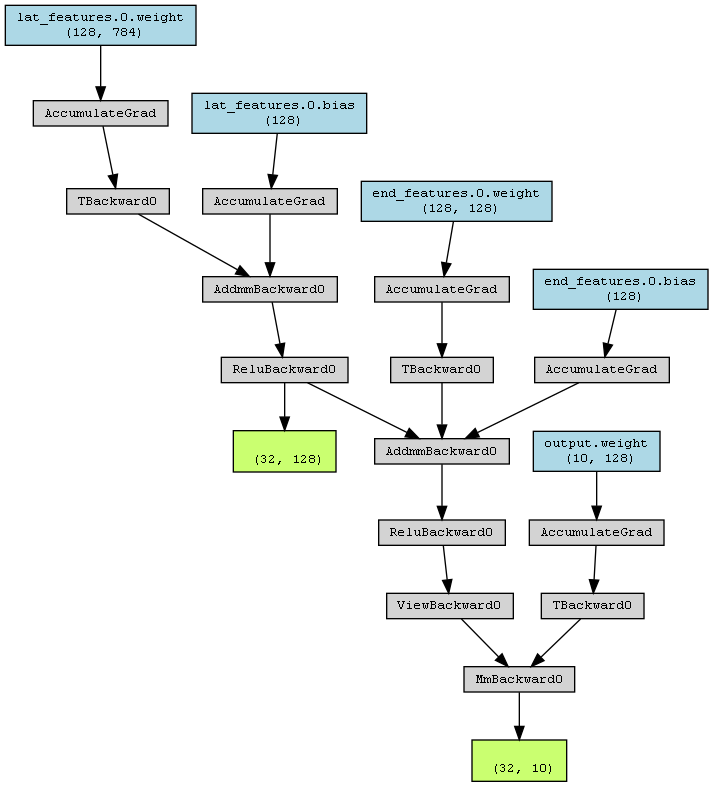
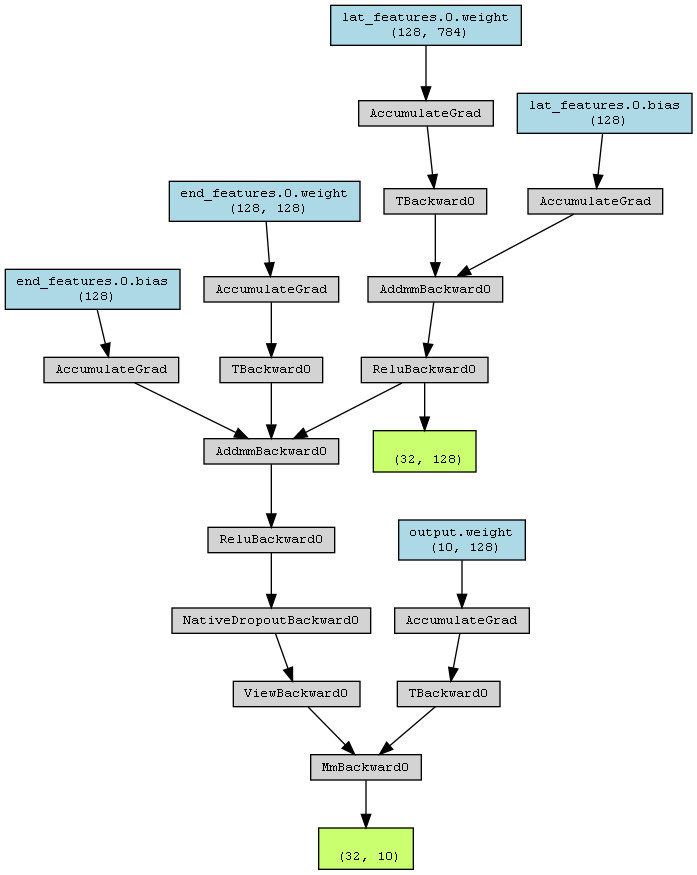
More investigation
Issue appears to be in freeze_up_to not grabbing the actual layer names / layer names being ambiguous in the MLP as defined.

diff --git a/utils.py b/utils.py
@@ -3,6 +3,10 @@ from torch import nn
 from torch import optim
 import torch.distributions as D
 
+from typing import NamedTuple, List, Callable
+from torch import Tensor
+from torch.nn import Module
+
 
 class GMM(nn.Module):
     def __init__(self, n_components, dim, weights):
@@ -67,3 +71,93 @@ def get_device():
         torch.device: Torch device. First GPU if available, else CPU.
     """
     return torch.device("cuda:0" if torch.cuda.is_available() else "cpu")
+
+
+# JA: copy of Avalanche funcs
+
+
+class LayerAndParameter(NamedTuple):
+    layer_name: str
+    layer: Module
+    parameter_name: str
+    parameter: Tensor
+
+
+def get_layers_and_params(model: Module, prefix="") -> List[LayerAndParameter]:
+    result: List[LayerAndParameter] = []
+    for param_name, param in model.named_parameters(recurse=False):
+        result.append(LayerAndParameter(prefix[:-1], model, prefix + param_name, param))
+
+    layer_name: str
+    layer: Module
+    for layer_name, layer in model.named_modules():
+        if layer == model:
+            continue
+
+        layer_complete_name = prefix + layer_name + "."
+
+        result += get_layers_and_params(layer, prefix=layer_complete_name)
+
+    return result
+
+
+def freeze_up_to(
+    model: Module,
+    freeze_until_layer: str = None,
+    set_eval_mode: bool = True,
+    set_requires_grad_false: bool = True,
+    layer_filter: Callable[[LayerAndParameter], bool] = None,
+    module_prefix: str = "",
+):
+    """
+    A simple utility that can be used to freeze a model.
+    :param model: The model.
+    :param freeze_until_layer: If not None, the freezing algorithm will continue
+        (proceeding from the input towards the output) until the specified layer
+        is encountered. The given layer is excluded from the freezing procedure.
+    :param set_eval_mode: If True, the frozen layers will be set in eval mode.
+        Defaults to True.
+    :param set_requires_grad_false: If True, the autograd engine will be
+        disabled for frozen parameters. Defaults to True.
+    :param layer_filter: A function that, given a :class:`LayerParameter`,
+        returns `True` if the parameter must be frozen. If all parameters of
+        a layer are frozen, then the layer will be set in eval mode (according
+        to the `set_eval_mode` parameter. Defaults to None, which means that all
+        parameters will be frozen.
+    :param module_prefix: The model prefix. Do not use if non strictly
+        necessary.
+    :return:
+    """
+
+    frozen_layers = set()
+    frozen_parameters = set()
+
+    to_freeze_layers = dict()
+    print("FREEZE_UP_TO")
+    for param_def in get_layers_and_params(model, prefix=module_prefix):
+        print(param_def.layer_name)
+        if (
+            freeze_until_layer is not None
+            and freeze_until_layer == param_def.layer_name
+        ):
+            break
+
+        freeze_param = layer_filter is None or layer_filter(param_def)
+        if freeze_param:
+            if set_requires_grad_false:
+                param_def.parameter.requires_grad = False
+                frozen_parameters.add(param_def.parameter_name)
+
+            if param_def.layer_name not in to_freeze_layers:
+                to_freeze_layers[param_def.layer_name] = (True, param_def.layer)
+        else:
+            # Don't freeze this parameter -> do not set eval on the layer
+            to_freeze_layers[param_def.layer_name] = (False, None)
+
+    if set_eval_mode:
+        for layer_name, layer_result in to_freeze_layers.items():
+            if layer_result[0]:
+                layer_result[1].eval()
+                frozen_layers.add(layer_name)
+
+    return frozen_layers, frozen_parameters

diff --git a/models/ar1.py b/models/ar1.py
@@ -22,7 +22,8 @@ from avalanche.training.templates.supervised import SupervisedTemplate
 from avalanche.training.utils import (
     replace_bn_with_brn,
     get_last_fc_layer,
-    freeze_up_to,
+    # freeze_up_to,
+    get_layers_and_params,
     change_brn_pars,
     examples_per_class,
     LayerAndParameter,
@@ -31,6 +32,7 @@ from avalanche.training.plugins.evaluation import default_evaluator
 
 # JA
 from torchviz import make_dot
+from utils import freeze_up_to
 
 
 class AR1(SupervisedTemplate):
@@ -196,11 +198,17 @@ class AR1(SupervisedTemplate):
 
             # "freeze_up_to" will freeze layers below "freeze_below_layer"
             # Beware that Batch ReNorm layers are not frozen!
-            freeze_up_to(
+            frozen_layers, frozen_parameters = freeze_up_to(
                 self.model,
                 freeze_until_layer=self.freeze_below_layer,
                 layer_filter=AR1.filter_bn_and_brn,
             )
+
+            # JA
+            print("OUTPUT OF FREEZE_UP_TO")
+            print(frozen_layers)
+            print("\n")
+            print(frozen_parameters)
 
             # Adapt the parameters of BatchReNorm layers
             change_brn_pars(
@@ -301,9 +309,16 @@ class AR1(SupervisedTemplate):
             self._before_forward(**kwargs)
 
             # JA:
-            if mb_it == 0:
+            if True and mb_it == 0:
+                print("MODEL.NAMED_PARAMETERS")
                 for name, param in self.model.named_parameters():
                     print(name, param.size())
+
+                print("\n-------\n")
+
+                print("GET_LAYERS_AND_PARAMS")
+                for param_def in get_layers_and_params(self.model, prefix=""):
+                    print(param_def.layer_name)
 
                 make_dot(
                     self.model(self.mb_x, latent_input=lat_mb_x, return_lat_acts=True),

diff --git a/nets/mobilenetv1.py b/nets/mobilenetv1.py
@@ -165,26 +165,13 @@ class SimpleMLP(nn.Module, BaseModel):
         """
         super().__init__()
 
-        layers = nn.Sequential(
-            *(
-                nn.Linear(input_size, hidden_size),
-                nn.ReLU(inplace=False),
-                nn.Dropout(p=drop_rate),
-            )
-        )
-        for layer_idx in range(hidden_layers - 1):
-            layers.add_module(
-                f"fc{layer_idx + 1}",
-                nn.Sequential(
-                    *(
-                        nn.Linear(hidden_size, hidden_size),
-                        nn.ReLU(inplace=False),
-                        nn.Dropout(p=drop_rate),
-                    )
-                ),
-            )
+        self.features = nn.Sequential()
 
-        self.features = nn.Sequential(*layers)
+        for idx in range(hidden_layers + 1):
+            self.features.add_module(f"fc{idx}", nn.Linear(input_size, hidden_size))
+            self.features.add_module(f"relu{idx}", nn.ReLU(inplace=False))
+            self.features.add_module(f"drop{idx}", nn.Dropout(p=drop_rate))
+
         self.classifier = nn.Linear(hidden_size, num_classes)
         self._input_size = input_size
 
